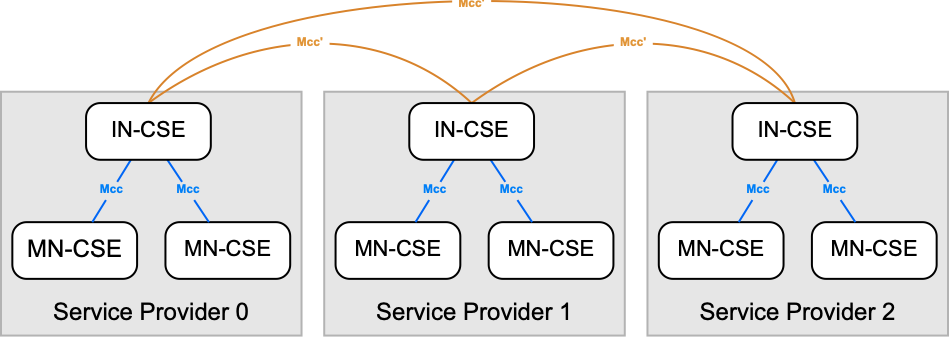
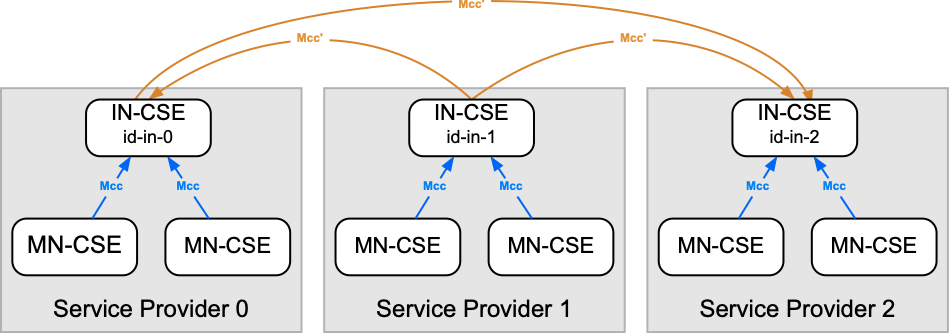
Clarification for SP registrations

diff --git a/docs/howtos/ServiceProviderRegistration.md b/docs/howtos/ServiceProviderRegistration.md
@@ -16,7 +16,13 @@ The following figure illustrates this concept.
 
 The CSEs of a single service provider can register with each other via the *Mcc* reference point (the blue connections in the figure). The top-level IN-CSE of each service provider can then regiser itself with the IN-CSE of another service provider via the *Mcc'*[^1] reference point (the orange connections in the figure).
 
-[^1]: *Mcc'* is pronounced *Mcc prime*
+[^1]: *Mcc'* is pronounced "*Mcc prime*"
+
+!!! info "Registrations are uni-directional"
+    A registration between the IN-CSEs of different service providers is a uni-directional process. This means that the registration from one service provider to another only happens in one direction. The other service provider's IN-CSE **must not** register with the first service provider's IN-CSE.
+
+
+After the registration is successful, the two IN-CSEs can exchange information about their CSEs and resources. This allows the CSEs of one service provider to access resources of the other service provider's CSEs, as long as the remote CSEs allow this via their access control policies.
 
 
 ## Configuration
@@ -25,7 +31,7 @@ The configuration of the service provider registration is done in a similar way 
 
 The difference is that one needs to specify one or two sections in the configuration file. The name of each section is important, as it is used to distinguish the different service provider registrations. The section names must start with `cse.sp.registrar.` followed by a unique identifier for that particular service provider registration.
 
-In the exampkes below, we use **"Service Provider 0"** as the local service provider, and **"Service Provider 1"** as the remote service provider that we want to register with. 
+In the examples below, we use **"Service Provider 1"** as the local service provider, and **"Service Provider 2"** as the remote service provider that we want to register with. Remember, the second service provider's IN-CSE must not register with the first service provider's IN-CSE.
 
 More details about these configuration settings can be found in the configuration documentation for [Service Provider Registrations](../setup/Configuration-cse.md#service-provider-registrations) and [Service Provider Security](../setup/Configuration-cse.md#service-provider-security-settings).
 
@@ -40,10 +46,10 @@ A minimum configuration section for a service provider registration could look l
 [cse.sp.registrar.exampleProvider1]
 
 ; The remote IN-CSE's service provider ID, address, CSE ID, resource name and serialization format
-spID = //provider1.example.com
-address = https://provider1.example.com:8080
-cseID = /id-in-sp1
-resourceName = cse-in-sp1
+spID = //provider-2.example.com
+address = https://provider-2.example.com:8080
+cseID = /id-in-sp2
+resourceName = cse-in-sp2
 serialization = json
 ```
 
@@ -55,21 +61,31 @@ An example security section for the service provider connection specified above 
 could look like this:
 
 ```ini title="Example Service Provider Security Configuration"
-[cse.sp.registrar.exampleProvider1.security]
+[cse.sp.registrar.exampleProvider-2.security]
 
 ; This is our user name and password that we use to authenticate with the remote IN-CSE
-httpUsername = sp0User
-httpPassword = hashedPassword0
+httpUsername = sp-1-User
+httpPassword = hashedPassword-1
 
 ; This is the user name and password that the remote IN-CSE uses to authenticate with us
-selfHttpUsername = spUser1
-selfHttpPassword = hashedPassword1
+selfHttpUsername = spUser1-2
+selfHttpPassword = hashedPassword-2
 ```
 
 
 ### Authorize Service Provider Registrations
 
-As with every registration, the registering CSE must be authorized to register with the remote IN-CSE. This is done by adding the CSE's ID to the *allowedCSROriginators* setting in the *\[cse.registration]* section of the remote IN-CSE's configuration file.
+As with every registration, the registering CSE (*Service Provider 1*) must be authorized to register with the remote IN-CSE (*Service Provider 2*). This is done by adding the CSE's ID of *Service Provider 1* to the *allowedCSROriginators* setting in the [*\[cse.registration\]*](../setup/Configuration-cse.md#cse-registration) section of *Service Provider 2*'s configuration file:
 
-The registrar CSE's ID does **not** need to be added to the local CSE's *allowedCSROriginators* setting. This is automatically done internally by the CSE when the registration is successful.
+```ini title="Example Service Provider Registration Authorization for Service Provider 2"
+[cse.registration]
+allowedCSROriginators=//provider-1.example.com/id-in-sp1
+```
+
+*allowedCSROriginators* is a list of CSE IDs, and may contain multiple entries, separated by commas. Each entry must be a valid CSE ID in absolute or SP-relative form.
+
+!!! info "What about the registrar CSE's ID?"
+
+	The registrar CSE's (*Service Provider 2*) ID does **not** need to be added to the local CSE's (*Service Provider 1*) *allowedCSROriginators* setting.  
+	This ID is added implicitly when the registration is successful.
 

diff --git a/docs/setup/Configuration-cse.md b/docs/setup/Configuration-cse.md
@@ -96,7 +96,7 @@ These settings are used to configure the CSE's internal registration behaviour, 
 | Setting               | Description                                                                                                                                                                                                   | Default    |
 |:----------------------|:--------------------------------------------------------------------------------------------------------------------------------------------------------------------------------------------------------------|:-----------|
 | allowedAEOriginators  | List of AE originators that can register. This is a comma-separated list of originators. Wildcards (\* and ?) are supported.                                                                                  | C\*, S\*   |
-| allowedCSROriginators | List of CSR originators that can register. This is a comma-separated list of originators. Wildcards (\* and ?) are supported.<br />**Note**: CSE-IDs must **not** have a leading `/`.                         | empty list |
+| allowedCSROriginators | List of CSR originators that can register. This is a comma-separated list of originators. Wildcards (\* and ?) are supported.<br />**Note**: CSE-IDs must be in absolute or SP-relative form.                 | empty list |
 | checkLiveliness       | Check the liveliness of the registrations to the registrar CSE and also from the registree CSEs.                                                                                                              | True       |
 | checkInterval         | This setting specifies the pause in seconds between tries to connect to the configured registrar CSE. This value is also used to check the connectivity to the registrar CSE after a successful registration. | 60 seconds |
 
